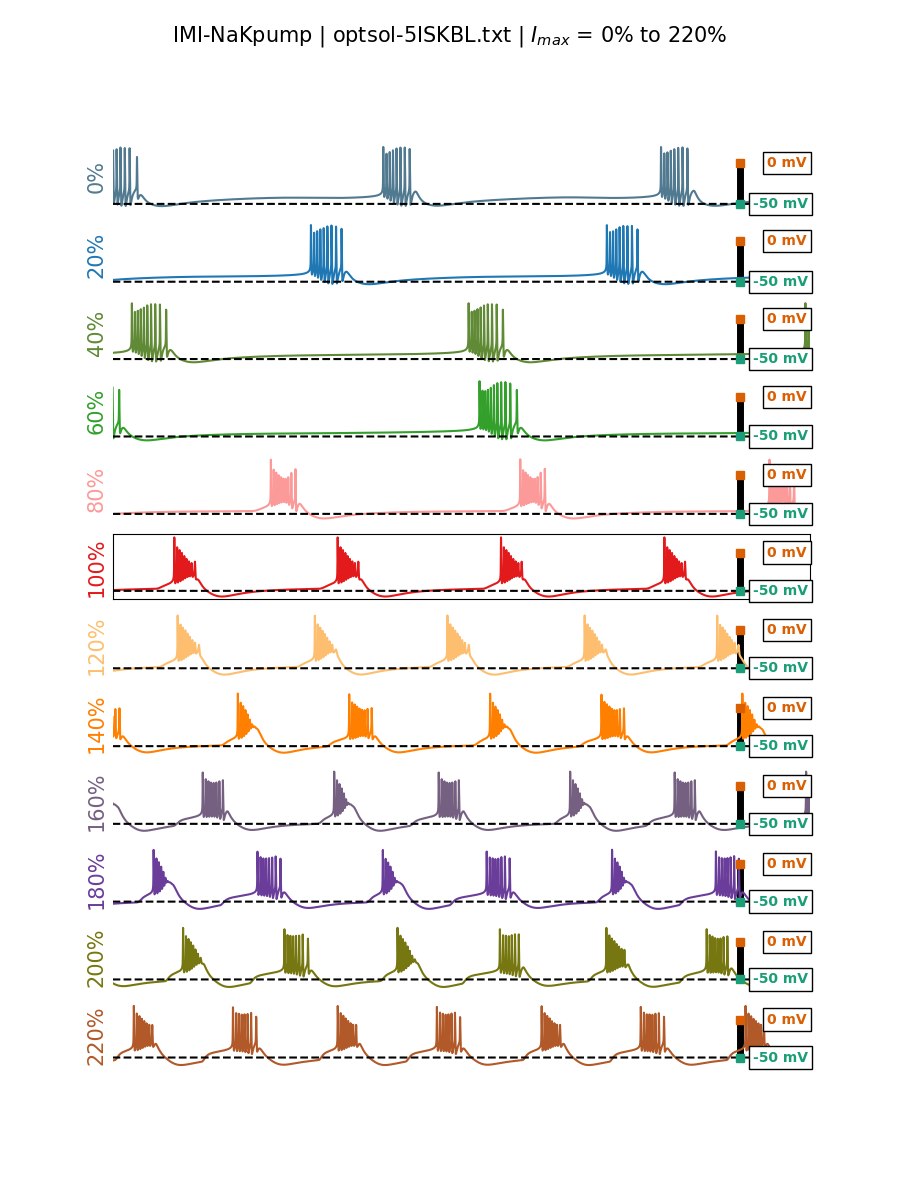
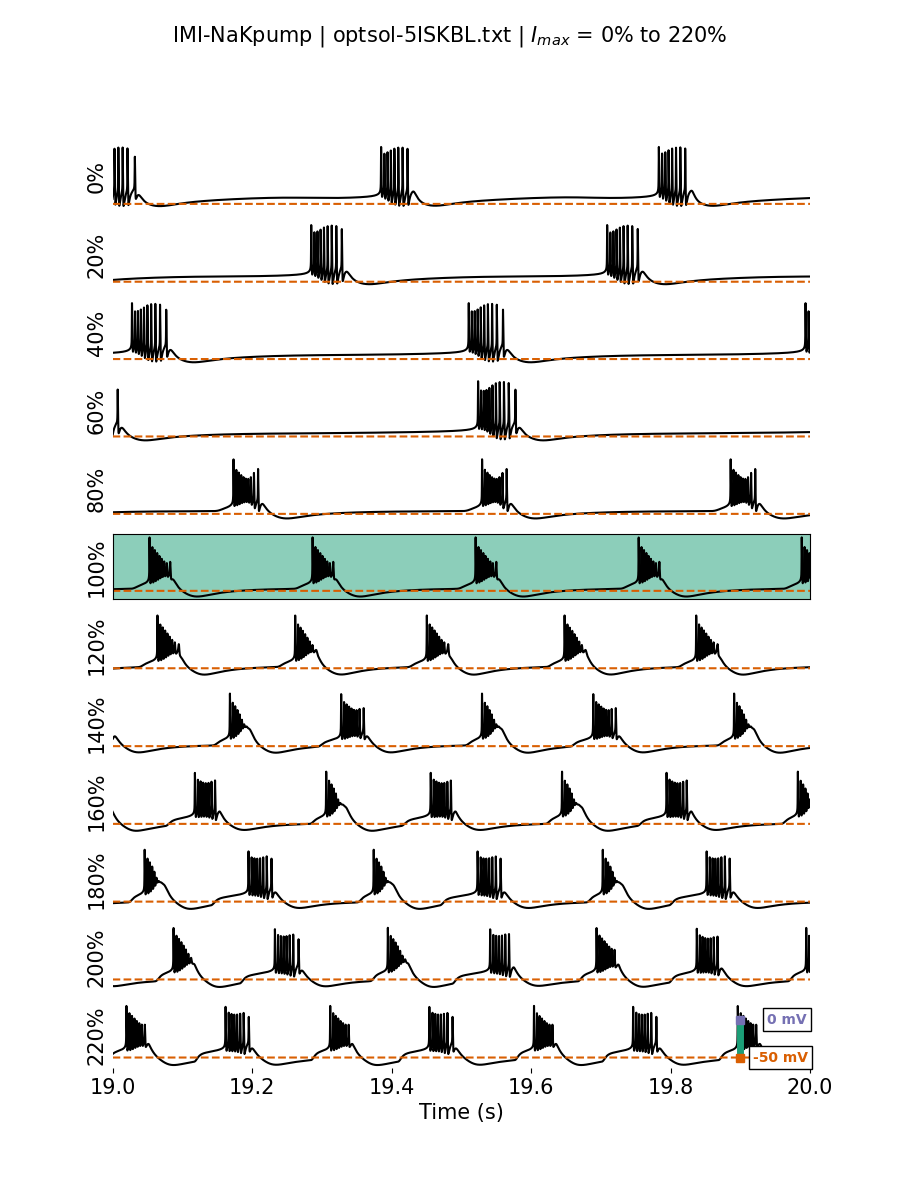
Update plots

Changed region(s): [[0.0933, 0.1233, 0.9333, 0.925], [0.2178, 0.555, 0.3111, 0.6167], [0.5289, 0.925, 0.56, 0.9558]]

diff --git a/plotpumps.py b/plotpumps.py
@@ -4,11 +4,7 @@ import numpy as np
 import subprocess
 
 # Specify parameter set
-hashname = '0MDLH0'
-
-# Specify colors
-colorwheel = ['#517990','#1f78b4','#608a35','#33a02c','#fb9a99','#e31a1c','#fdbf6f',
-				'#ff7f00','#756081','#6a3d9a','#777711','#b15928']
+hashname = '5ISKBL'
 
 # Calculate pump current
 def getipump(p, sol):
@@ -47,6 +43,8 @@ fig.savefig('control-'+hashname+'.png')
 # Plot I_max varied from 0% to 220% of control
 fig, axs = plt.subplots(12, sharex=True, figsize=(9,12))
 for i in range(12):
+	if i <11:
+		break
 	# Vary I_max by specified factor
 	p = originalp.copy()
 	factor = round(i * 0.2, 1)
@@ -62,23 +60,30 @@ for i in range(12):
 	time = np.linspace(0,20,len(sol))
 
 	# Plot the varied parameter set
-	axs[i].plot(time[time>19], sol[:,0][time>19], color=colorwheel[i])
-	axs[i].plot(time[time>19], -50*np.ones(len(sol))[time>19], color='black', ls='dashed')
-	axs[i].vlines(19.9, -50, 0, lw=5, color='black')
-	axs[i].plot(19.9, -50, 's', color='#1b9e77')
-	axs[i].plot(19.9, 0, 's', color='#d95f02')
-	bboxprops = dict(boxstyle='square', facecolor='white', edgecolor='black')
-	axs[i].annotate('-50 mV', xy=(19.9, -50), xytext=(9, 0), color='#1b9e77',
-					textcoords='offset points', horizontalalignment='left', weight='bold',
-					verticalalignment='center', annotation_clip=False, bbox=bboxprops)
-	axs[i].annotate('0 mV', xy=(19.9, 0), xytext=(19.5, 0), color='#d95f02',
-					textcoords='offset points', horizontalalignment='left', weight='bold',
-					verticalalignment='center', annotation_clip=False, bbox=bboxprops)
-	axs[i].set_xlim(19,20)
+	axs[i].plot(time[time>19], sol[:,0][time>19], color='black')
+	axs[i].plot(time[time>19], -50*np.ones(len(sol))[time>19], color='#d95f02', ls='dashed')
 	axs[i].tick_params(left=False, bottom=False, labelleft=False, labelbottom=False)
 	if i != 5:
 		axs[i].set_frame_on(False)
-	axs[i].set_ylabel(f'{percentage}%', fontsize=15, color=colorwheel[i])
+	else:
+		axs[i].set_facecolor('#1b9e7780')
+	
+	if i == 11:
+		axs[i].vlines(19.9, -50, 0, lw=5, color='white', edgecolor='black', zorder=10)
+		axs[i].plot(19.9, -50, 's', color='#d95f02', edgecolor='black', zorder=11)
+		axs[i].plot(19.9, 0, 's', color='#7570b3', edgecolor='black', zorder=11)
+		bboxprops = dict(boxstyle='square', facecolor='white', edgecolor='black')
+		axs[i].annotate('-50 mV', xy=(19.9, -50), xytext=(9, 0), color='#d95f02',
+						textcoords='offset points', horizontalalignment='left', weight='bold',
+						verticalalignment='center', annotation_clip=False, bbox=bboxprops)
+		axs[i].annotate('0 mV', xy=(19.9, 0), xytext=(19.5, 0), color='#7570b3',
+						textcoords='offset points', horizontalalignment='left', weight='bold',
+						verticalalignment='center', annotation_clip=False, bbox=bboxprops)
+		axs[i].tick_params(bottom=True, labelbottom=True, labelsize=15)
+		axs[i].set_xlabel('Time (s)', fontsize=15)
+
+	axs[i].set_ylabel(f'{percentage}%', fontsize=15, color='black')
+	axs[i].set_xlim(19,20)
 
 fig.suptitle(f'IMI-NaKpump | {pfname} | $I_{{max}}$ = 0% to 220%', fontsize=15)
 fig.savefig('varied-I_max-'+hashname+'.png')
